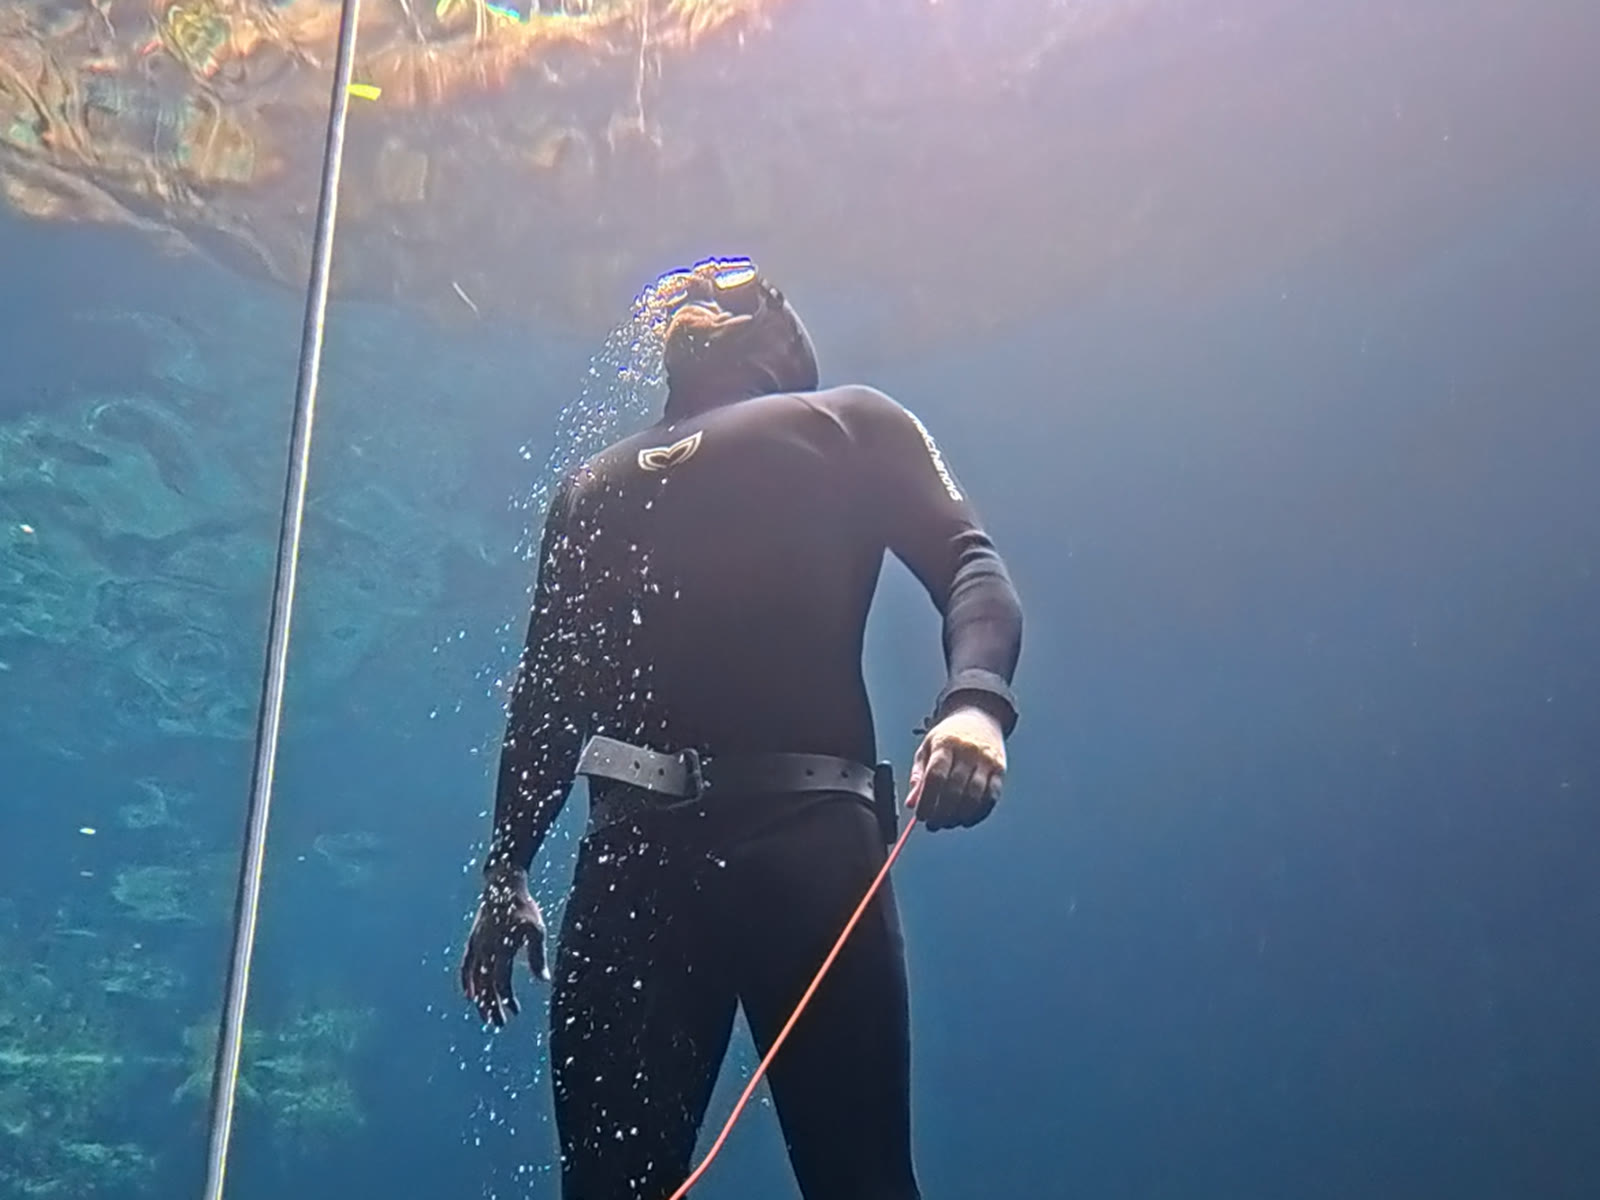
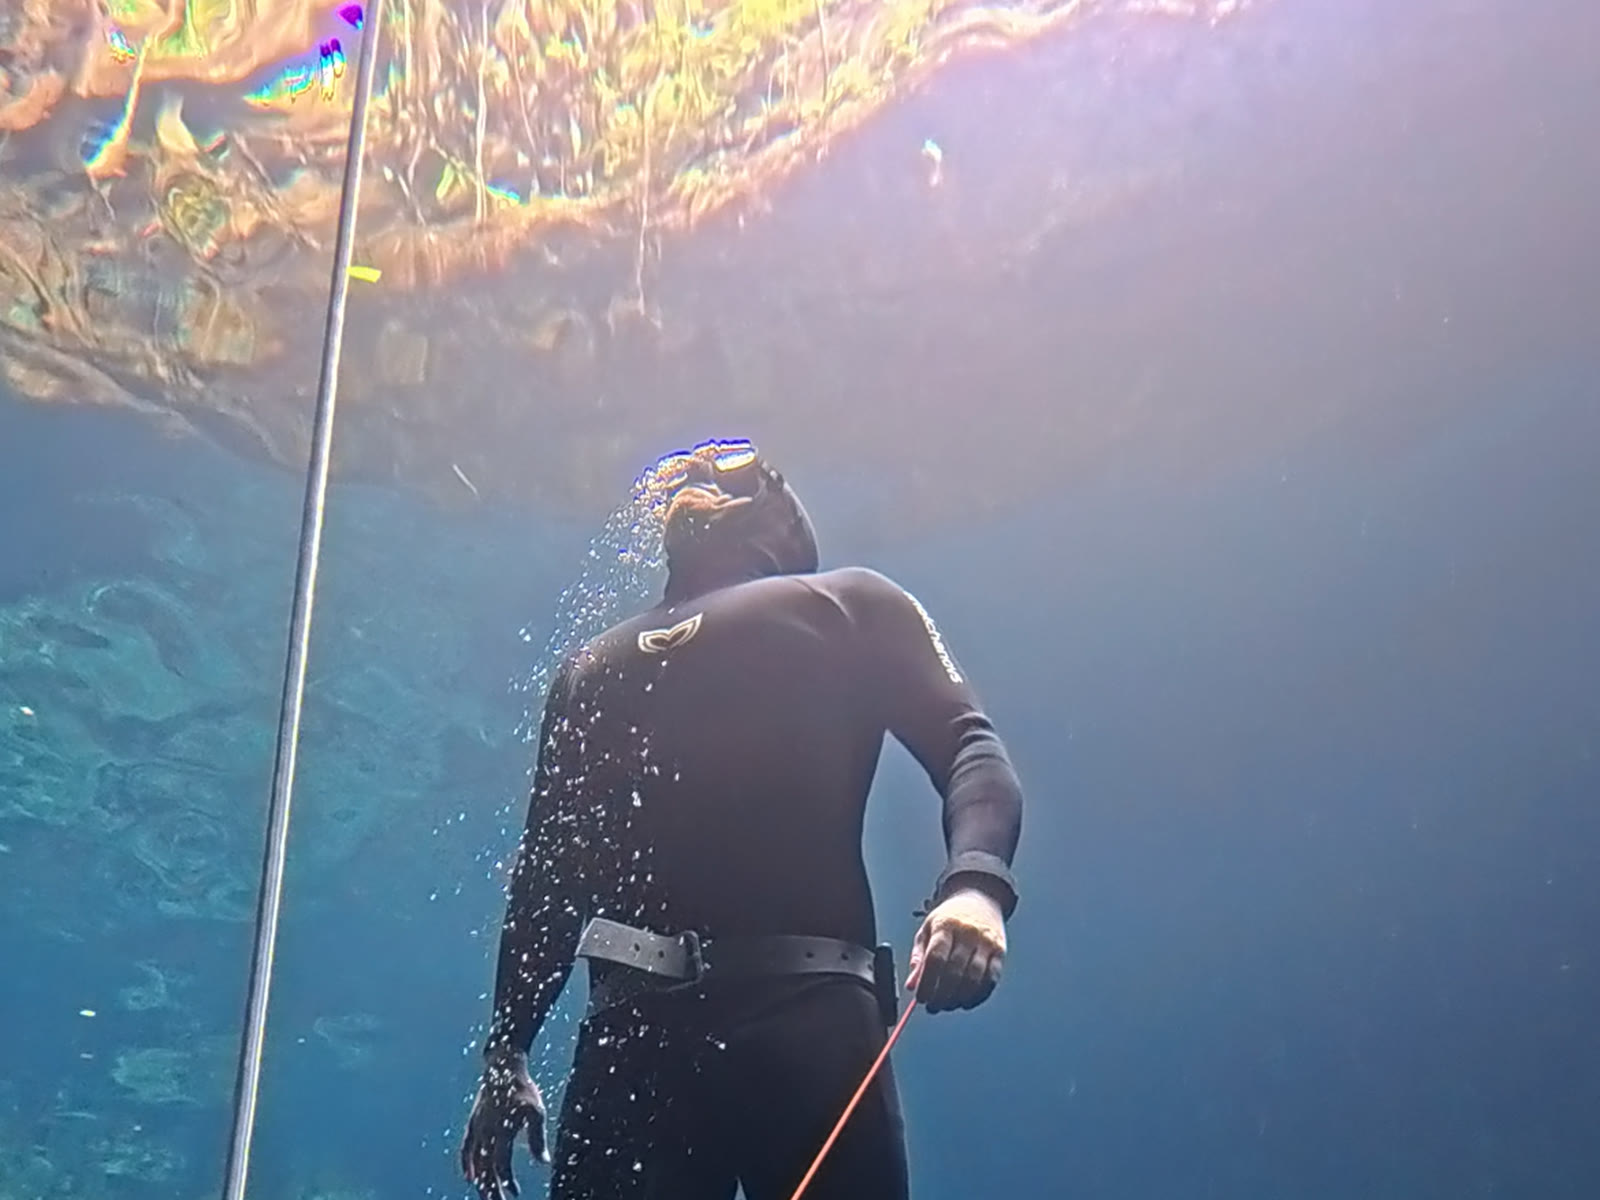
Travels: Tulum 4 crop raised to show the surface, both hands in frame; set as the Tulum card cover

diff --git a/travels/index.html b/travels/index.html
@@ -44,7 +44,7 @@
   <div class="trips">
     <a class="trip" href="#bali"><img src="img/bali/01.jpg" alt="" loading="lazy"><span class="tn">Bali</span><span class="tc">10 photos · 7 videos</span></a>
     <a class="trip" href="#yucatan"><img src="img/yucatan/01.jpg" alt="" loading="lazy"><span class="tn">Yucatán</span><span class="tc">10 photos · 13 videos</span></a>
-    <a class="trip" href="#tulum"><img src="img/tulum/01.jpg" alt="" loading="lazy"><span class="tn">Tulum</span><span class="tc">5 photos · 5 videos</span></a>
+    <a class="trip" href="#tulum"><img src="img/tulum/04.jpg" alt="" loading="lazy"><span class="tn">Tulum</span><span class="tc">5 photos · 5 videos</span></a>
     <a class="trip" href="#baja"><img src="img/baja/01.jpg" alt="" loading="lazy"><span class="tn">Baja</span><span class="tc">7 photos · 6 videos</span></a>
     <a class="trip" href="#bolivia"><img src="img/bolivia/01.jpg" alt="" loading="lazy"><span class="tn">Bolivia</span><span class="tc">14 photos</span></a>
     <a class="trip" href="#puglia"><img src="img/puglia/01.jpg" alt="" loading="lazy"><span class="tn">Puglia</span><span class="tc">10 photos</span></a>
